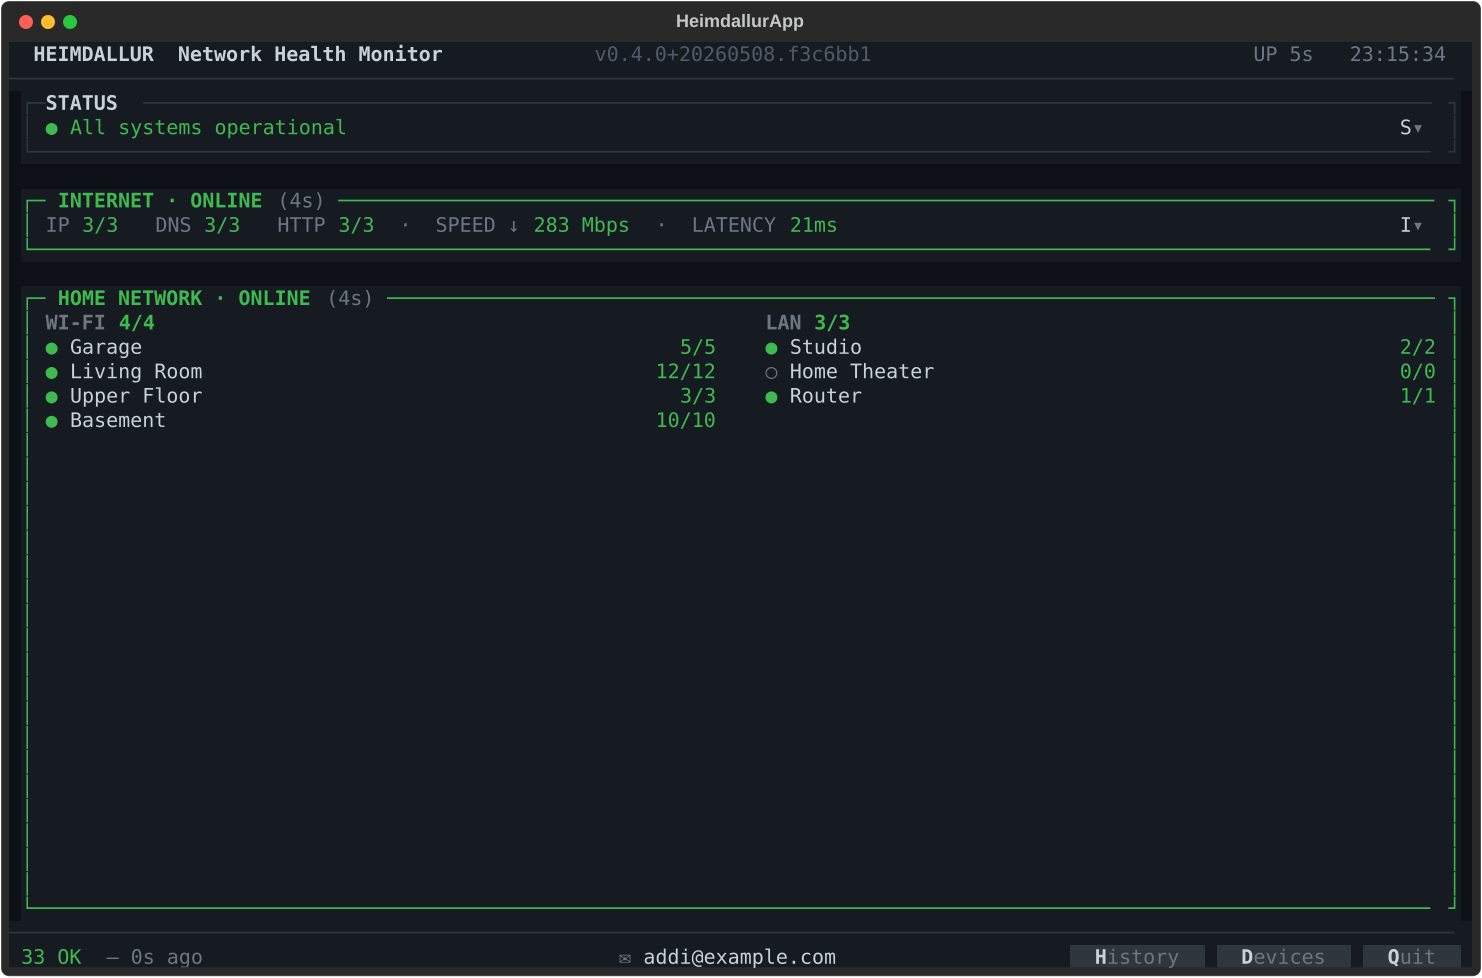
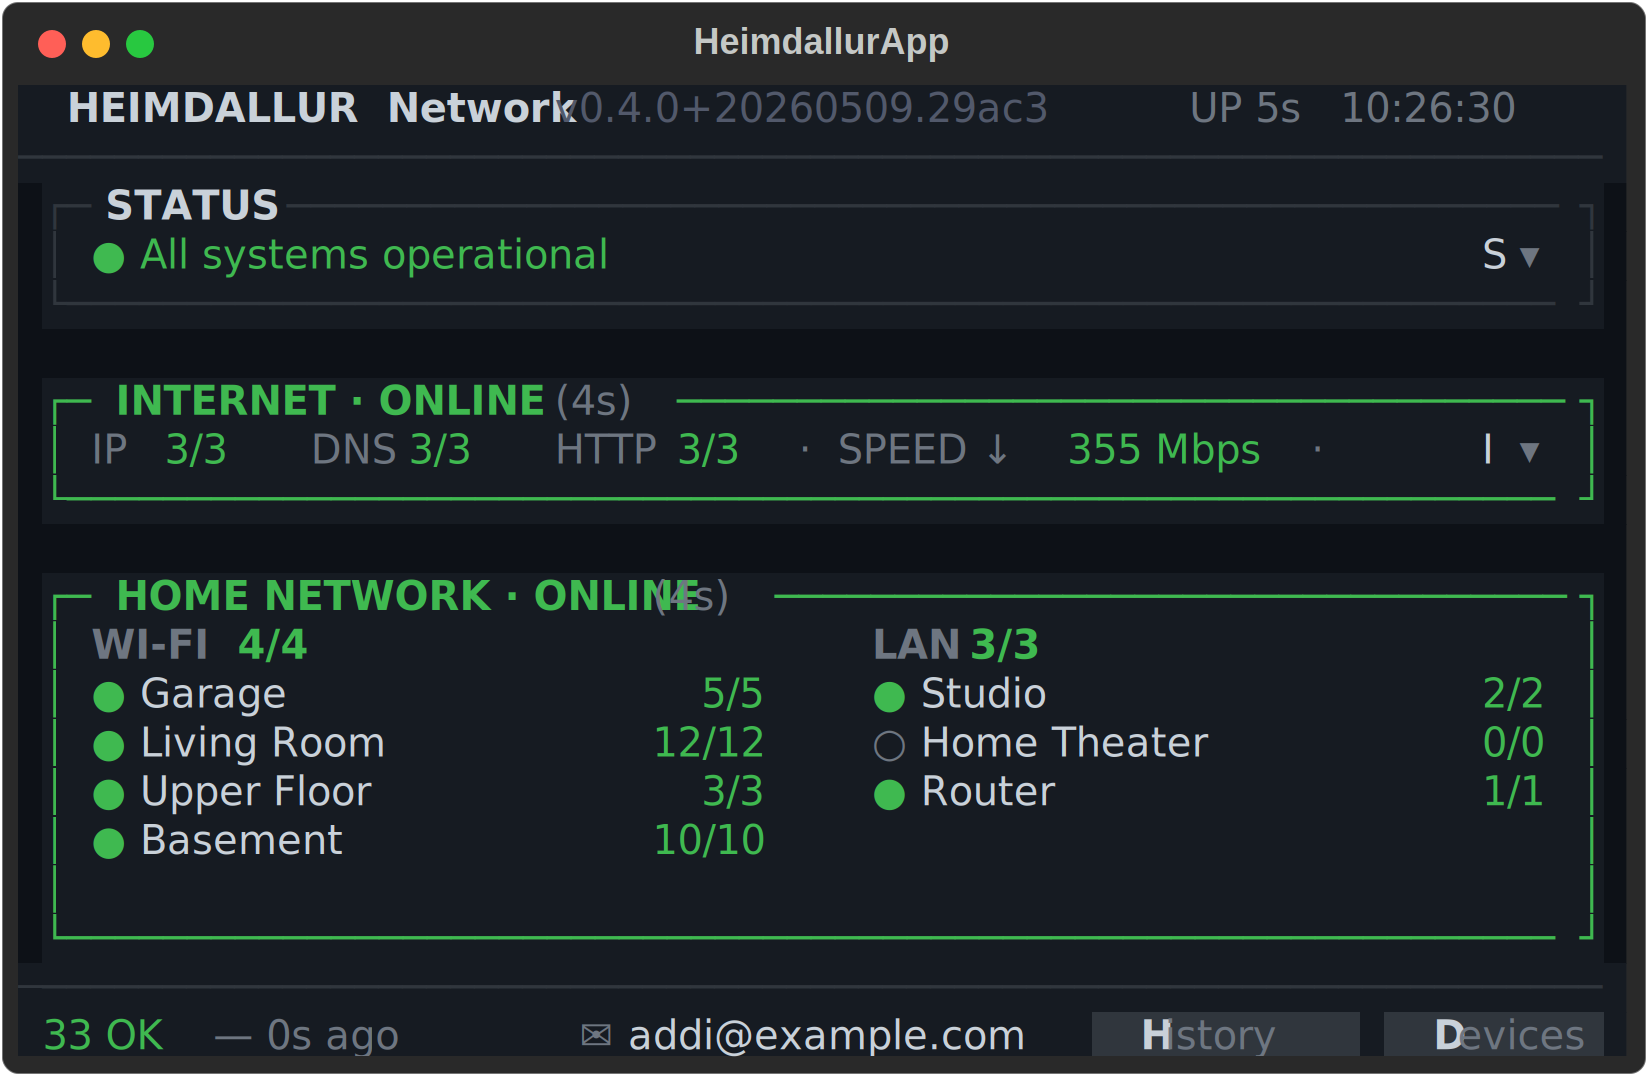
fix: match screenshot terminal size to physical device (66×20)
Screenshots were generated at 120×38, making them look tiny compared
to the actual HyperPixel display which uses a 66×20 terminal (the
"C" size selected in issue #29). Regenerated all 15 screenshots at
the correct proportions.

https://claude.ai/code/session_01FZDLzsZbioPjDoN9nCuT4V

diff --git a/scripts/capture_all.py b/scripts/capture_all.py
@@ -21,8 +21,8 @@ from pathlib import Path
 _REPO  = Path(__file__).parent.parent
 _SCEN  = _REPO / "heimdallur" / "mock" / "scenarios"
 
-COLUMNS = 120
-ROWS    = 38
+COLUMNS = 66
+ROWS    = 20
 SETTLE  = 5.0   # seconds — long enough for probe + speed-test mock to fire
 NAV     = 0.6   # seconds — pause after navigation keypresses
 

diff --git a/scripts/screenshot.py b/scripts/screenshot.py
@@ -23,8 +23,8 @@ import subprocess
 import sys
 from pathlib import Path
 
-COLUMNS = 120
-ROWS    = 38
+COLUMNS = 66
+ROWS    = 20
 
 # Speed-test mock waits 3 s before first result; 5 s guarantees both
 # the probe loop and speed loop have fired at least once.
